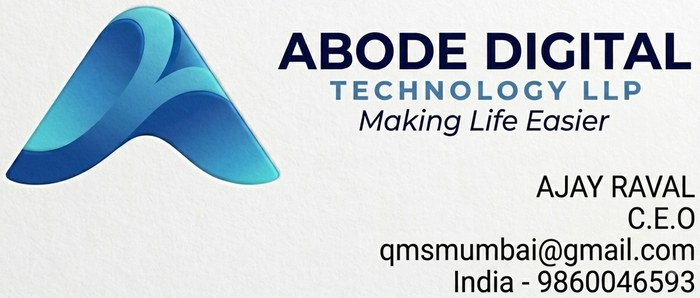
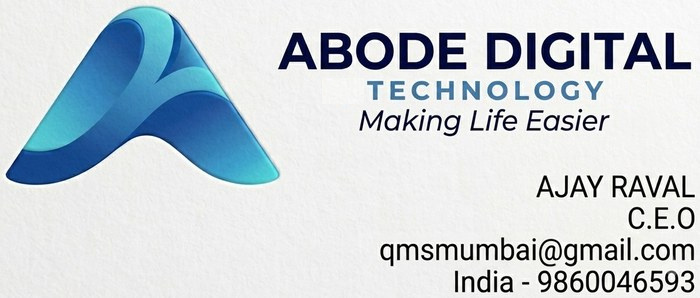
Add files via upload

Changed region(s): [[0.45, 0.2718, 0.93, 0.3624]]

diff --git a/index.html b/index.html
@@ -154,9 +154,6 @@
   .banner button { background:none; border:none; color:#1C2541; text-decoration:underline; font-size:11px; font-family:'JetBrains Mono',monospace; padding:0; margin-top:4px; cursor:pointer; }
 
   .back-btn { display:flex; align-items:center; gap:4px; background:none; border:none; color:#1C2541; font-size:14px; font-family:'Inter',sans-serif; padding:0; margin-bottom:16px; cursor:pointer; }
-  .sort-row { display:flex; align-items:center; gap:8px; margin-bottom:14px; }
-  .sort-chip { padding:7px 13px; border-radius:999px; font-size:12px; font-weight:600; border:none; cursor:pointer; background:rgba(32,36,44,.06); color:#8891A0; font-family:'Inter',sans-serif; }
-  .sort-chip.active { background:#1C2541; color:#fff; }
   .empty-box { border:1px dashed rgba(32,36,44,.2); border-radius:8px; padding:24px; text-align:center; color:#8891A0; font-size:14px; }
 
   .tech-card { display:flex; background:#FBFAF6; border-radius:8px; overflow:hidden; box-shadow:0 1px 3px rgba(28,37,65,.08); margin-bottom:12px; }
@@ -263,7 +260,7 @@
     <div class="ic"><span class="msr" style="font-size:22px">engineering</span></div>
     <div><div class="txt-title">For Kaarigar Technician</div><div class="txt-sub">Go online, get matched with nearby users</div></div>
   </button>
-  <img src="company-footer.jpg" alt="Abode Digital Technology LLP — Making Life Easier" style="position:absolute; bottom:20px; left:50%; transform:translateX(-50%); width:80%; max-width:300px; border-radius:8px; opacity:0.92;" />
+  <img src="company-footer.jpg" alt="Abode Digital Technology — Making Life Easier" style="position:absolute; bottom:20px; left:50%; transform:translateX(-50%); width:80%; max-width:300px; border-radius:8px; opacity:0.92;" />
 </div>
 
 <div id="tech-explainer">
@@ -323,22 +320,17 @@
         <div class="trust-item"><div class="ic"><span class="msr" style="color:#2E8B57">verified</span></div><div class="lbl">Verified<br/>technicians</div></div>
         <div class="trust-item"><div class="ic"><span class="msr" style="color:#2F6FA8">schedule</span></div><div class="lbl">Live<br/>availability</div></div>
         <div class="trust-item"><div class="ic"><span class="msr" style="color:#3FA796">payments</span></div><div class="lbl">Fair<br/>pricing</div></div>
-        <div class="trust-item"><div class="ic"><span class="msr" style="color:#F2A93B">star</span></div><div class="lbl">Rated by<br/>users</div></div>
       </div>
     </div>
 
     <div id="screen-list" style="display:none">
       <button class="back-btn" id="btn-back"><span class="msr" style="font-size:16px">arrow_back</span> All services</button>
       <h3 class="section-title" id="list-heading">0 online now</h3>
-      <div class="sort-row">
-        <button class="sort-chip active" id="sort-nearest">Nearest</button>
-        <button class="sort-chip" id="sort-rated">Top rated</button>
-      </div>
       <div id="list-content"></div>
     </div>
   </main>
   <div style="text-align:center; padding:8px 16px 24px; color:#8891A0; font-size:10.5px; font-family:'JetBrains Mono',monospace;">
-    © 2022 Abode Digital Technology LLP - All rights reserved.
+    © 2026 Abode Digital Technology - All rights reserved.
   </div>
 </div>
 </div>
@@ -460,7 +452,7 @@
   <footer>
     <a href="#" id="config-note">⚠ Firebase not configured yet — see setup notes in this file</a>
     <div style="margin-top:8px; color:#8891A0; font-size:10.5px; font-family:'JetBrains Mono',monospace;">
-      © 2022 Abode Digital Technology LLP - All rights reserved.
+      © 2026 Abode Digital Technology - All rights reserved.
     </div>
   </footer>
 </div>
@@ -538,8 +530,6 @@ function initUserApp() {
   const listHeading = document.getElementById("list-heading");
   const listContent = document.getElementById("list-content");
   const geoBanner = document.getElementById("geo-banner");
-  const sortNearestBtn = document.getElementById("sort-nearest");
-  const sortRatedBtn = document.getElementById("sort-rated");
   const tradeGrid = document.getElementById("trade-grid");
   const locationText = document.getElementById("location-text");
   const heroCount = document.getElementById("hero-count");
@@ -547,7 +537,6 @@ function initUserApp() {
   let userCoords = null;
   let geoStatus = "idle";
   let currentTrade = null;
-  let sortMode = "nearest";
   let allDocs = [];
   const VERIFIED_TICK_SVG_USER = '<svg class="verified-tick" viewBox="0 0 24 24" aria-label="Verified"><path fill="#2E8B57" d="M12 1.5l2.6 2 3.3-.2 1.2 3.1 2.8 1.8-.9 3.2.9 3.2-2.8 1.8-1.2 3.1-3.3-.2-2.6 2-2.6-2-3.3.2-1.2-3.1-2.8-1.8.9-3.2-.9-3.2 2.8-1.8 1.2-3.1 3.3.2z"/><path fill="none" stroke="#fff" stroke-width="2.4" stroke-linecap="round" stroke-linejoin="round" d="M7.8 12.4l3 3 5.6-6"/></svg>';
   let db = null;
@@ -563,12 +552,6 @@ function initUserApp() {
   document.getElementById("btn-emergency").addEventListener("click", () => openTrade("__all__"));
   document.getElementById("btn-back").addEventListener("click", closeTrade);
   document.getElementById("btn-locate").addEventListener("click", locate);
-  sortNearestBtn.addEventListener("click", () => { sortMode = "nearest"; updateSortUI(); renderList(); });
-  sortRatedBtn.addEventListener("click", () => { sortMode = "rated"; updateSortUI(); renderList(); });
-  function updateSortUI() {
-    sortNearestBtn.classList.toggle("active", sortMode === "nearest");
-    sortRatedBtn.classList.toggle("active", sortMode === "rated");
-  }
 
   function showBanner() {
     const msgs = {
@@ -680,9 +663,8 @@ function initUserApp() {
     const isCapped = !isAll && byNearest.length > MAX_SHOWN;
     const selected = isCapped ? byNearest.slice(0, MAX_SHOWN) : byNearest;
 
-    // Display sort mode still applies to whichever set is actually shown —
-    // "Nearest" keeps nearest-first order, "Top rated" re-sorts that same set by rating.
-    let sorted = [...selected].sort((a,b) => sortMode === "nearest" ? a.distance - b.distance : (b.rating||0) - (a.rating||0));
+    // Always nearest first.
+    let sorted = [...selected].sort((a,b) => a.distance - b.distance);
 
     listHeading.textContent = isAll ? `${sorted.length} technicians within ${usedRange} km` : `${sorted.length} ${trade.label.toLowerCase()} within ${usedRange} km`;
     if (usedRange !== DEFAULT_RANGE_KM) {
@@ -734,7 +716,6 @@ function initUserApp() {
           <div class="meta-row">
             <span>📍 ${t.distance.toFixed(2)} km</span>
             <span>⏱ ~${etaMin(t.distance)} min</span>
-            <span>★ ${(t.rating || 4.7).toFixed(1)}</span>
           </div>
           <a class="call-btn" href="tel:${t.phone || ""}" data-techid="${t._id || ""}">📞 Call ${(t.name || "technician").split(" ")[0]}</a>
         </div>
@@ -1222,7 +1203,6 @@ function initTechApp() {
       trades: Array.from(selectedTrades),
       lat, lng,
       online: true,
-      rating: 4.7,
       updatedAt: fsServerTimestamp()
     };
     if (techIsNew) {

diff --git a/service-worker.js b/service-worker.js
@@ -1,4 +1,4 @@
-const CACHE = "kaarigar-merged-v37";
+const CACHE = "kaarigar-merged-v38";
 const ASSETS = ["./", "./index.html", "./manifest.json", "./icon-192.png", "./icon-512.png", "./splash.jpg", "./company-footer.jpg", "./tech-explainer-voice.mp3", "./trade.photos/ac_technician.jpg", "./trade.photos/carpentry.jpg", "./trade.photos/computer_repair.jpg", "./trade.photos/electrical.jpg", "./trade.photos/fabrication.jpg", "./trade.photos/home_cleaning.jpg", "./trade.photos/kabadi_wala.jpg", "./trade.photos/kadiya_mason.jpg", "./trade.photos/key_maker.jpg", "./trade.photos/marriage_photography.jpg", "./trade.photos/painter.jpg", "./trade.photos/pest_control.jpg", "./trade.photos/plumbing.jpg", "./trade.photos/pooja_pandit.jpg", "./trade.photos/refrigerator.jpg", "./trade.photos/ro_water.jpg", "./trade.photos/tv_repair.jpg", "./trade.photos/washing_machine.jpg", "./trade.photos/water_supplier.jpg", "./trade.photos/vastu_consultant.jpg", "./trade.photos/interior_decorator.jpg", "./trade.photos/upholstery_repair.jpg", "./trade.photos/window_sliding.jpg"];
 
 self.addEventListener("install", (e) => {
